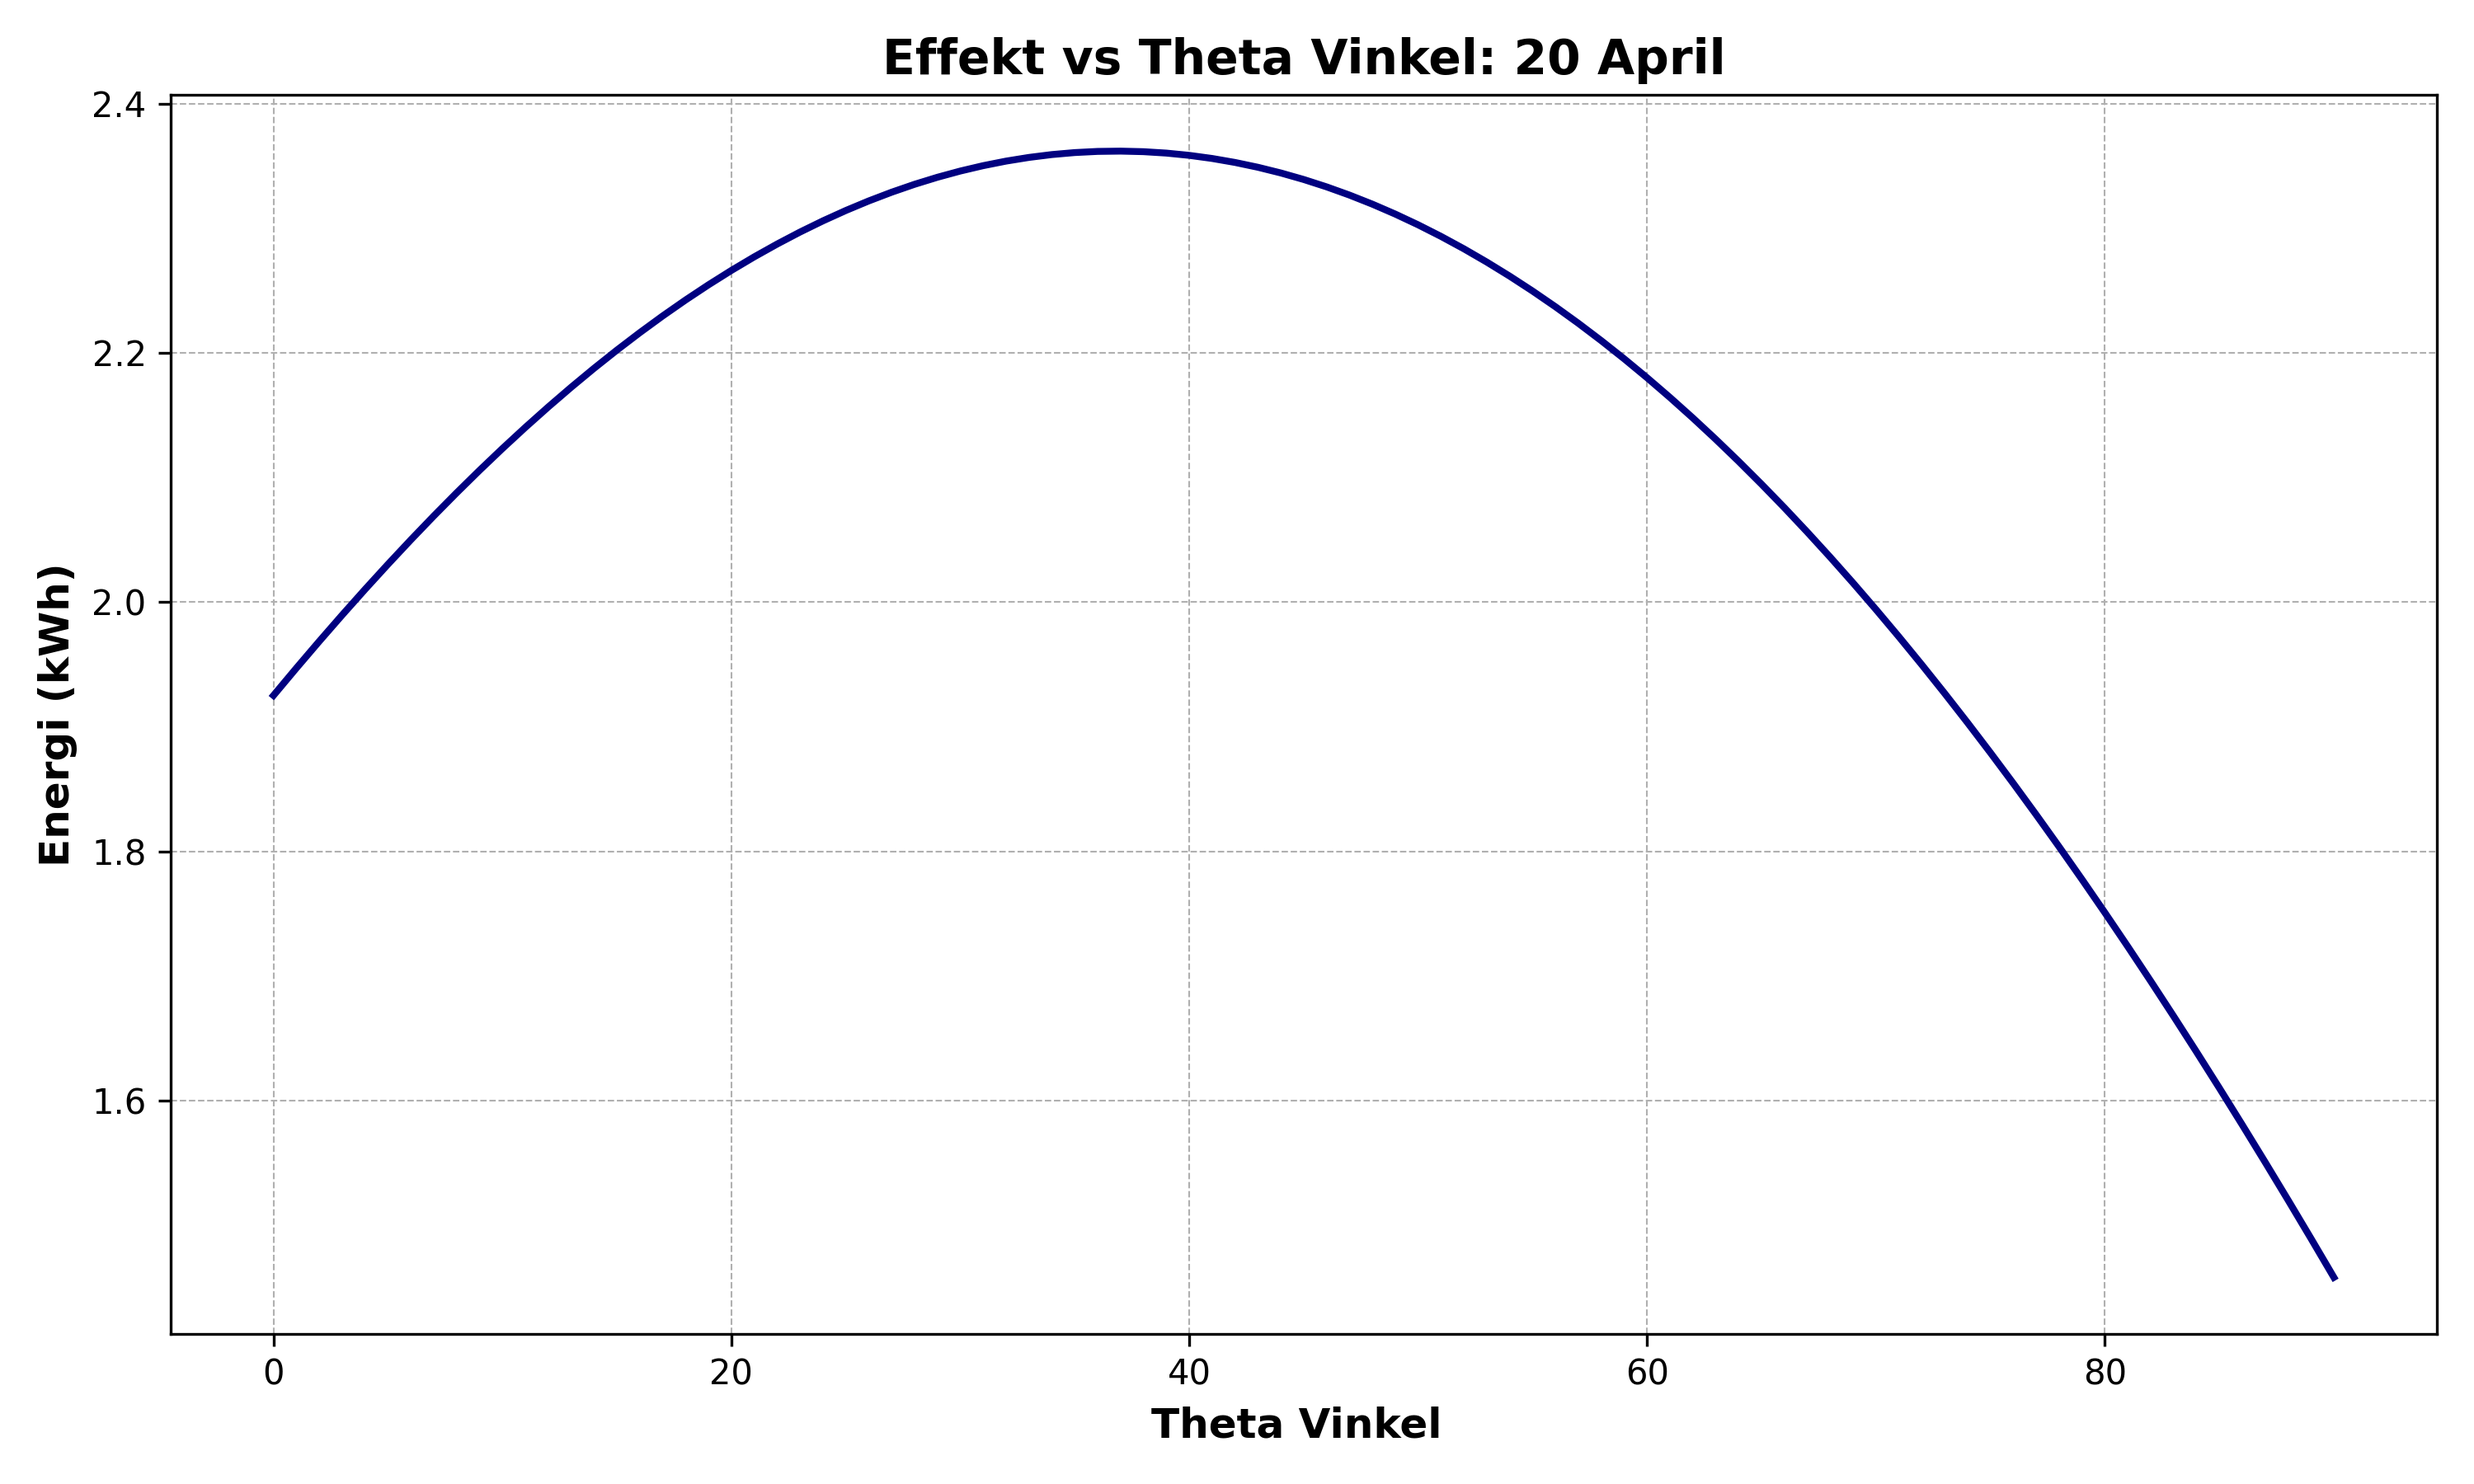
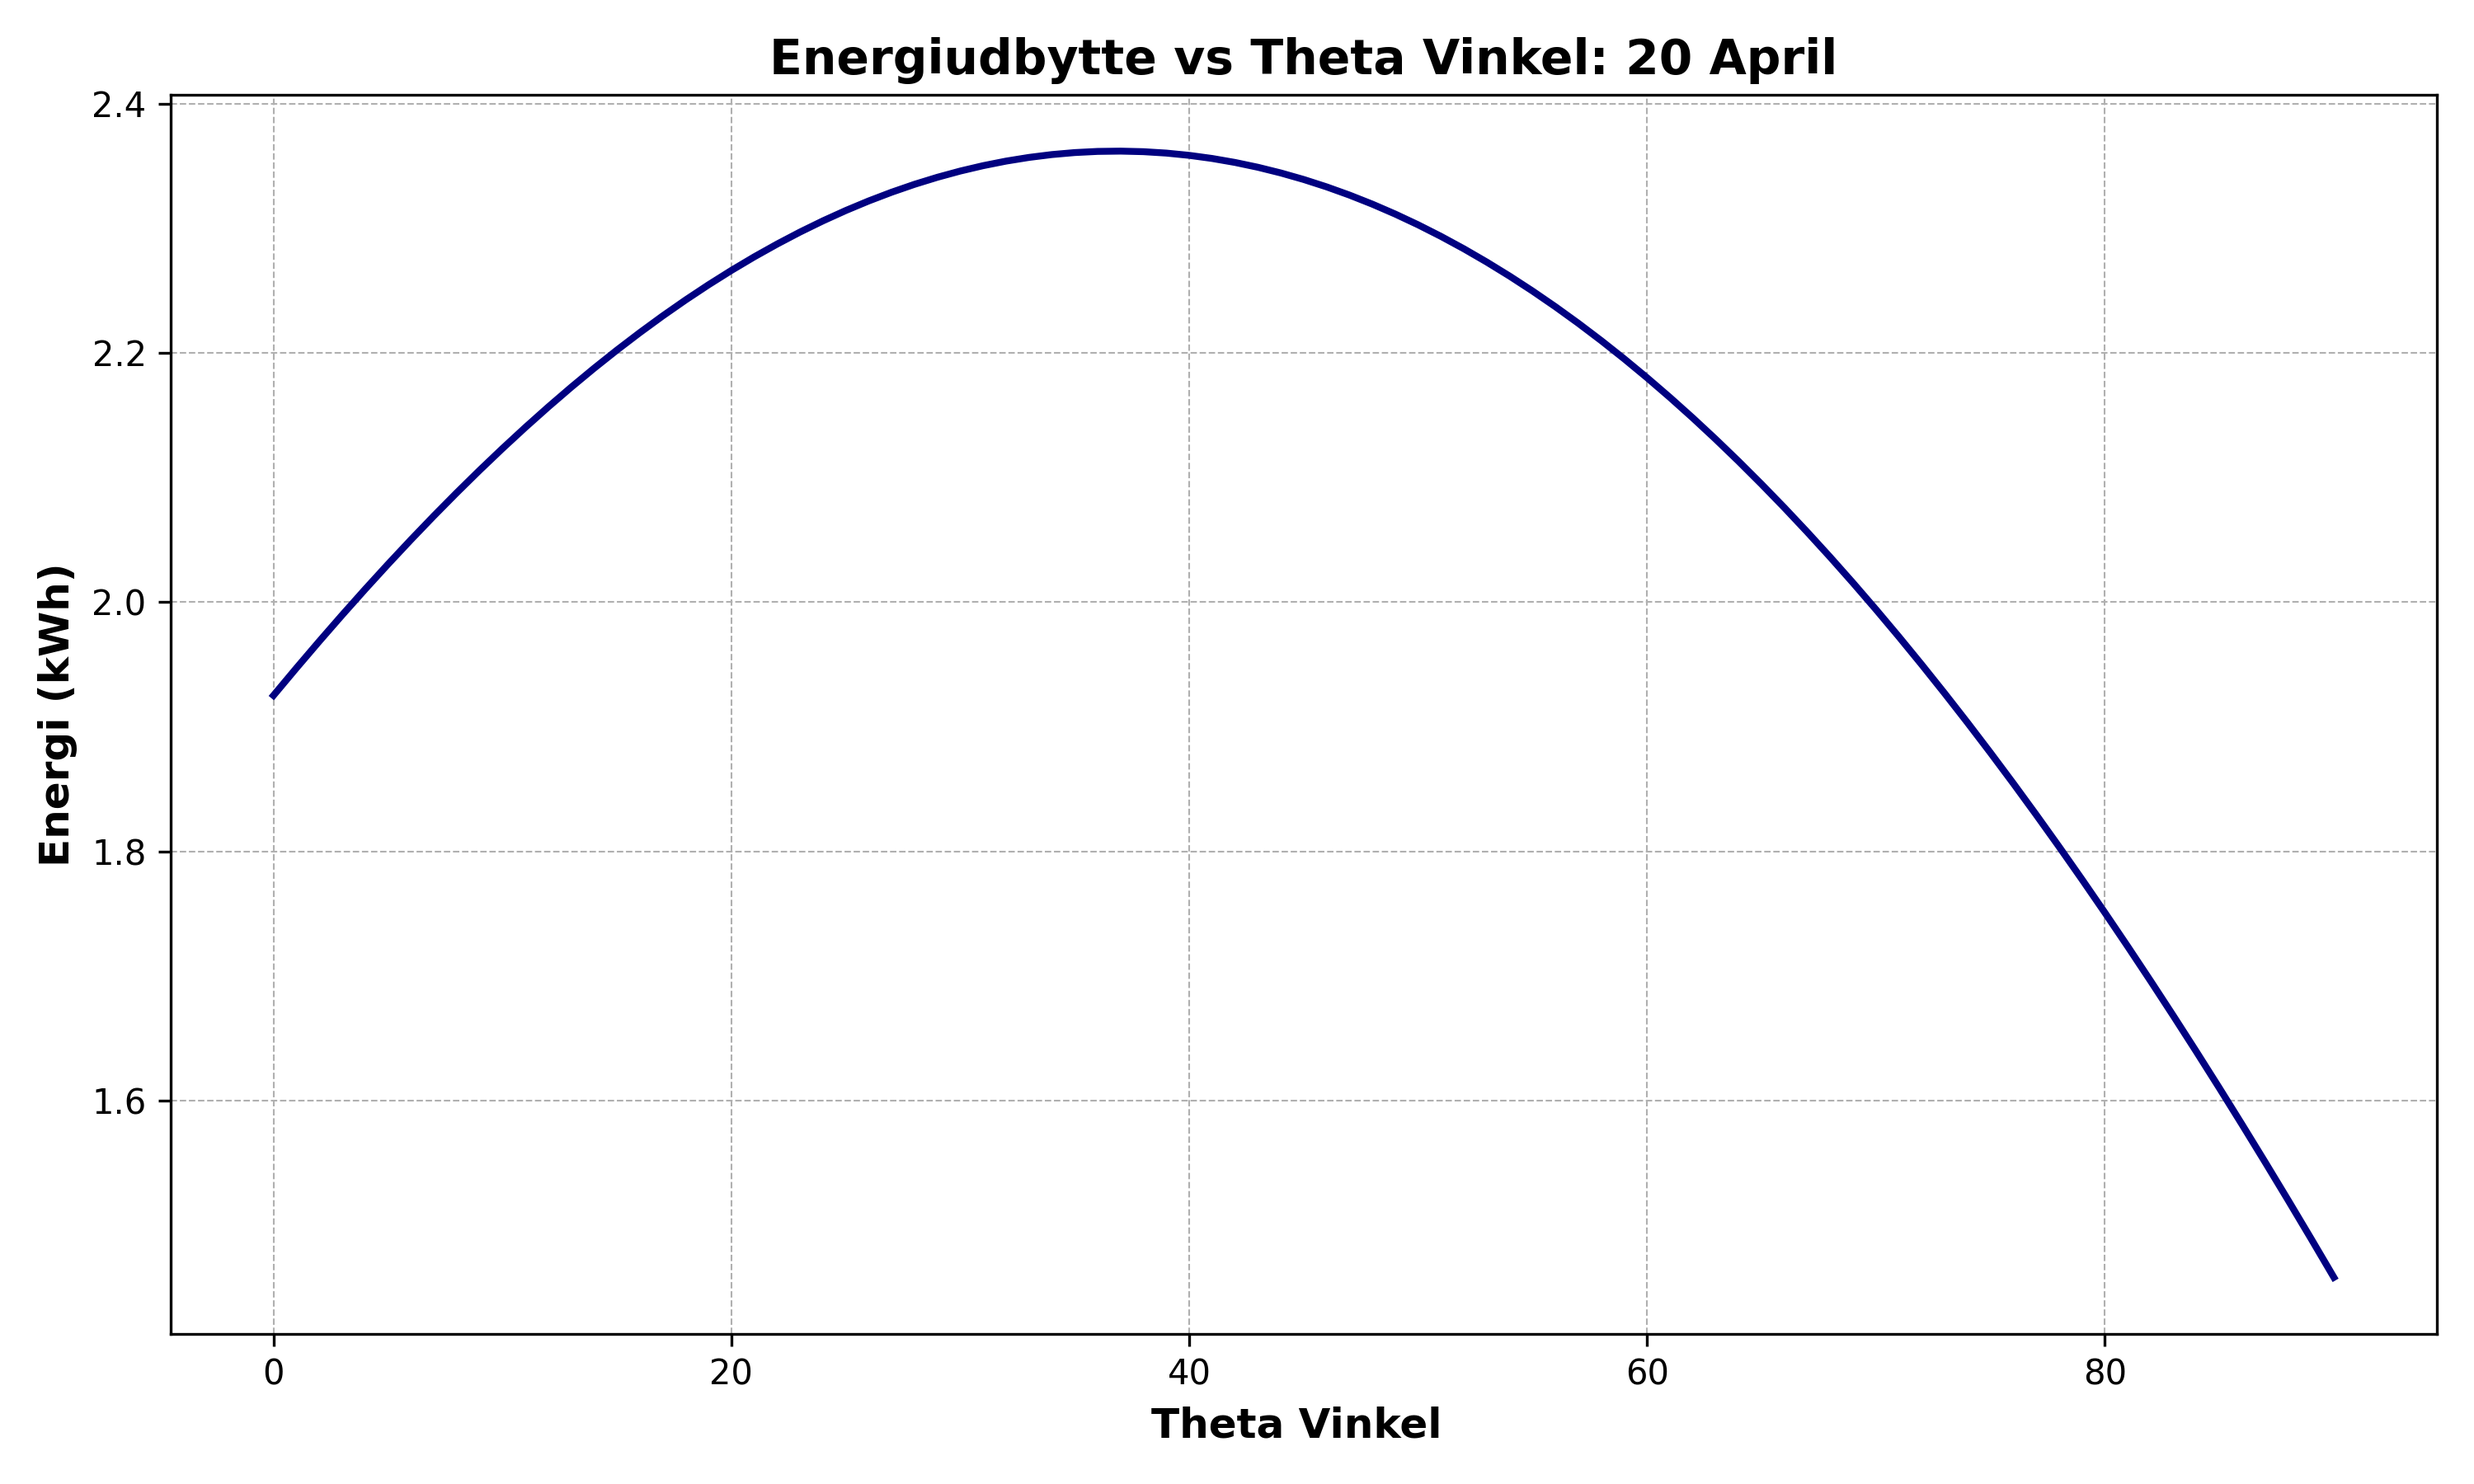
small changes

Changed region(s): [[0.31, 0.0, 0.744, 0.0622]]

diff --git a/Solpositionsmodellering/Koordinatsystem.py b/Solpositionsmodellering/Koordinatsystem.py
@@ -71,39 +71,39 @@ med numeriske fejl, bør det give array([7.07106781e-01, 6.12323400e-17, 0.0])).
 Forklar solpanelets orientering og solens placering i de tre situationer."""
 
 
-def solar_panel_projection(theta_sol, phi_sol, theta_panel, phi_panel):
-    inner = np.zeros(theta_sol.size)
-    for i, (theta_s, phi_s, theta_p, phi_p) in enumerate(
-        zip(theta_sol, phi_sol, theta_panel, phi_panel)
-    ):
-        temp = sp.sin(theta_p) * sp.sin(theta_s) * sp.cos(phi_p - phi_s) + sp.cos(
-            theta_p
-        ) * sp.cos(theta_s)
-        if temp > 0:
-            inner[i] = temp
-    return inner
-
-
 # def solar_panel_projection(theta_sol, phi_sol, theta_panel, phi_panel):
 #     inner = np.zeros(theta_sol.size)
 #     for i, (theta_s, phi_s, theta_p, phi_p) in enumerate(
 #         zip(theta_sol, phi_sol, theta_panel, phi_panel)
 #     ):
-#         if (
-#             np.rad2deg(theta_s) < 90
-#         ):  # Only calculates the flux if the sun is above the horizon
-#             flux = max(
-#                 sp.sin(theta_p) * sp.sin(theta_s) * sp.cos(phi_p - phi_s)
-#                 + sp.cos(theta_p) * sp.cos(theta_s),
-#                 0,
-#             )  # Only returns positive values for the flux
-#             # print(f"Calculating flux = {round(flux,2)} at theta = {round(np.rad2deg(theta_s),2)}")
-#         else:
-#             # print(f"Sun is down")
-#             flux = 0
-
-#         inner[i] = flux
+#         temp = sp.sin(theta_p) * sp.sin(theta_s) * sp.cos(phi_p - phi_s) + sp.cos(
+#             theta_p
+#         ) * sp.cos(theta_s)
+#         if temp > 0:
+#             inner[i] = temp
 #     return inner
+
+
+def solar_panel_projection(theta_sol, phi_sol, theta_panel, phi_panel):
+    inner = np.zeros(theta_sol.size)
+    for i, (theta_s, phi_s, theta_p, phi_p) in enumerate(
+        zip(theta_sol, phi_sol, theta_panel, phi_panel)
+    ):
+        if (
+            np.rad2deg(theta_s) < 90
+        ):  # Only calculates the flux if the sun is above the horizon
+            flux = max(
+                sp.sin(theta_p) * sp.sin(theta_s) * sp.cos(phi_p - phi_s)
+                + sp.cos(theta_p) * sp.cos(theta_s),
+                0,
+            )  # Only returns positive values for the flux
+            # print(f"Calculating flux = {round(flux,2)} at theta = {round(np.rad2deg(theta_s),2)}")
+        else:
+            # print(f"Sun is down")
+            flux = 0
+
+        inner[i] = flux
+    return inner
 
 
 theta_sol = np.array([np.pi / 4, np.pi / 2, 0.0, np.pi / 4, np.pi / 4, np.pi / 4])

diff --git a/effekt_energi/effekt_ernergi.py b/effekt_energi/effekt_ernergi.py
@@ -16,7 +16,7 @@ def data_load(
         slut_dato = "2024-12-31"
         delta_tid = "h"
 
-    elif time_interval == "==":
+    elif time_interval == "day":
         start_dato = date
         slut_dato = date
         delta_tid = "min"
@@ -144,7 +144,7 @@ def energy_per_day(
         daily_energy_arr.append(daily_energy)
 
     print(
-        f"Total energy generation: {np.sum(daily_energy_arr):.3f} for alpha angle: {90 - np.rad2deg(theta_p):.3f}"
+        f"Total energy generation: {np.sum(daily_energy_arr):.3f} for theta angle: {np.rad2deg(theta_p):.3f}"
     )
     return daily_energy_arr
 
@@ -174,7 +174,7 @@ elif time_interval == "day":
     period_seconds = 60
 
 # array of phi values including the max and min index
-phi_panel = np.linspace(np.deg2rad(180), np.deg2rad(180), 1)
+phi_panel = np.linspace(np.deg2rad(175), np.deg2rad(175), 1)
 # Array of theta values in radians from 0 to 90 degrees
 theta_panel = np.radians(np.arange(0, 91, 1))
 
@@ -219,7 +219,7 @@ def plot_energy_vs_theta(save: bool):
         "Energi (kWh)", fontsize=12, fontweight="bold"
     )  # Set the label for the y-axis
     plt.title(
-        "Effekt vs Theta Vinkel: 20 April", fontsize=14, fontweight="bold"
+        "Energiudbytte vs Theta Vinkel: 2024", fontsize=14, fontweight="bold"
     )  # Set the title of the plot
     plt.grid(
         True, which="both", linestyle="--", linewidth=0.5
@@ -228,11 +228,11 @@ def plot_energy_vs_theta(save: bool):
 
     # Show the plot
     if save:
-        plt.savefig("./img/energy_vs_theta_single-day.png", dpi=300)
+        plt.savefig("./img/energy_vs_theta_year_175.png", dpi=300)
     plt.show()
 
 
-plot_energy_vs_theta(save=False)
+plot_energy_vs_theta(save=True)
 
 # plot_energy_curve(energy_generation, save=True)
 
